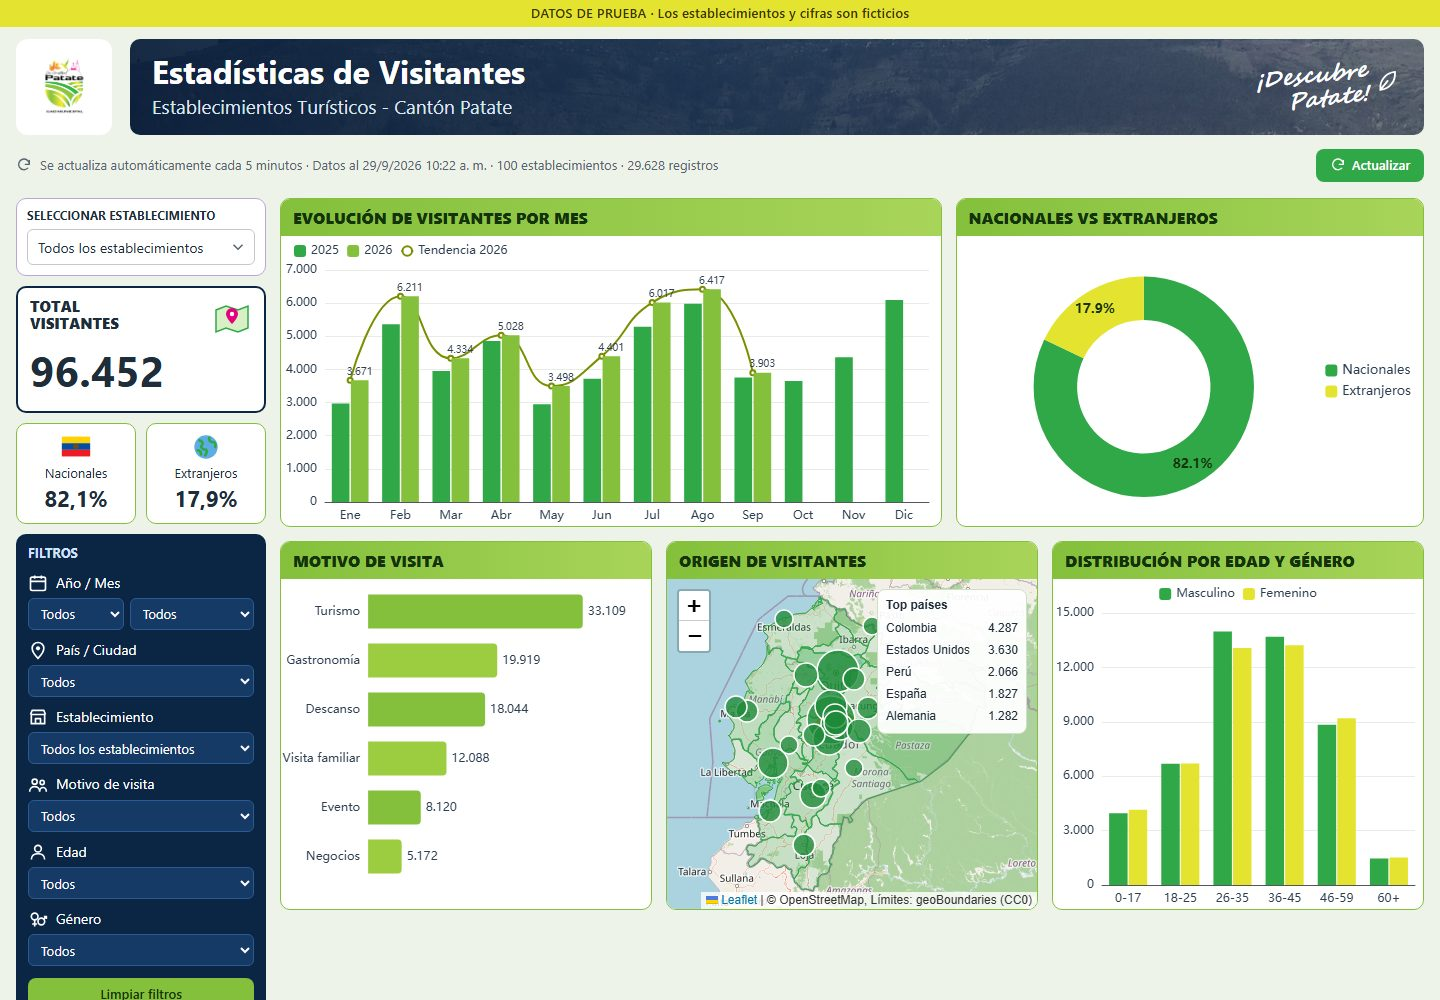
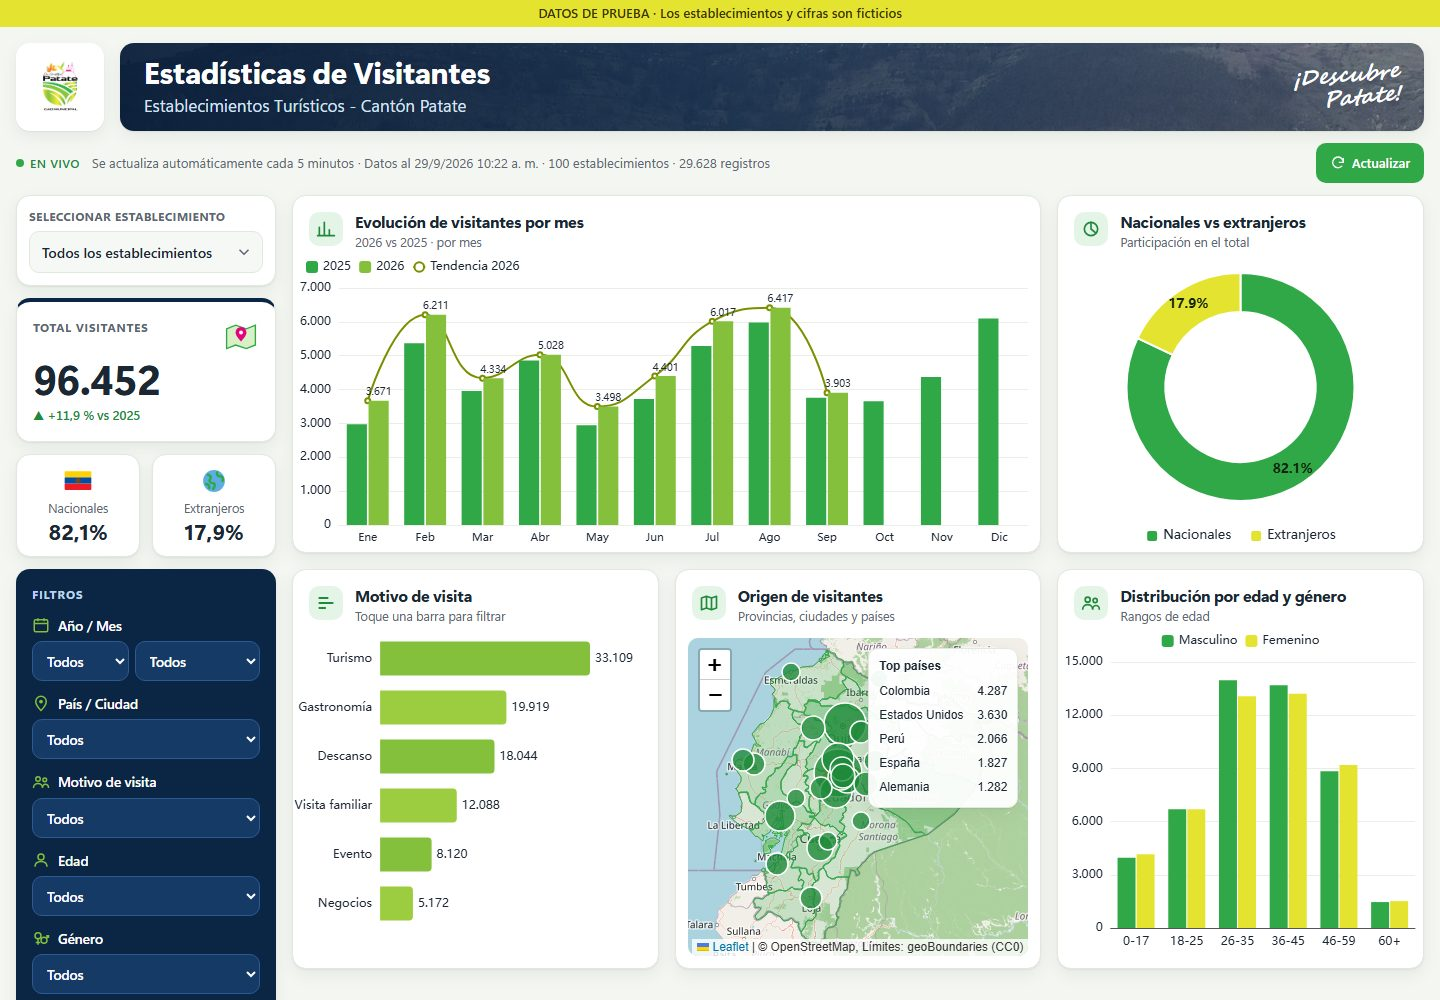
docs(repositorio): guía de contribución, capturas y README de la versión 2.0
AGENTS.md pasa a CONTRIBUTING.md redactado como guía del autor; capturas
de escritorio (claro y oscuro) y celular; README con las funciones nuevas y
la sección Sobre el proyecto; CHANGELOG 2.0.0.

diff --git a/README.md b/README.md
@@ -2,7 +2,7 @@
 
 [![Publicar dashboard](https://github.com/Alexis-VsCode/turismo-patate/actions/workflows/publicar.yml/badge.svg)](https://github.com/Alexis-VsCode/turismo-patate/actions/workflows/publicar.yml)
 [![Sitio en línea](https://img.shields.io/badge/demo-en%20l%C3%ADnea-30A848)](https://alexis-vscode.github.io/turismo-patate/)
-![Pruebas](https://img.shields.io/badge/pruebas-61%20en%20verde-30A848)
+![Pruebas](https://img.shields.io/badge/pruebas-64%20en%20verde-30A848)
 ![Licencia](https://img.shields.io/badge/licencia-derechos%20reservados-0B2545)
 
 > [English version](README.en.md)
@@ -13,7 +13,9 @@ tablero se actualiza solo, sin servidores propios ni licencias.
 
 **Demo en vivo:** https://alexis-vscode.github.io/turismo-patate/
 
-![Vista de escritorio del dashboard](docs/capturas/escritorio.jpg)
+| Modo claro | Modo oscuro |
+|---|---|
+| ![Vista de escritorio en modo claro](docs/capturas/escritorio.jpg) | ![Vista de escritorio en modo oscuro](docs/capturas/escritorio-oscuro.jpg) |
 
 ## El problema que resuelve
 
@@ -28,7 +30,8 @@ vienen, por qué motivo, y con qué edad y género. Las condiciones eran:
 
 ## Funcionalidades
 
-- **Indicadores:** total de visitantes y porcentaje de nacionales y de extranjeros.
+- **Indicadores:** total de visitantes con su **variación contra el mismo período del año anterior**
+  (▲ o ▼), y porcentaje de nacionales y de extranjeros. Las cifras se animan al filtrar.
 - **Gráficos:**
   - evolución mensual comparando dos años, con línea de tendencia;
   - dona de nacionales frente a extranjeros;
@@ -41,11 +44,14 @@ vienen, por qué motivo, y con qué edad y género. Las condiciones eran:
 - **Filtros:**
   - combo de establecimiento con búsqueda al escribir, pensado para cientos de opciones;
   - año, mes, procedencia, motivo, edad y género;
-  - **filtrado cruzado** con clic en los gráficos y en el mapa.
+  - **filtrado cruzado** con clic en los gráficos y en el mapa;
+  - **chips de filtros activos**, que se quitan con un toque.
 - **Actualización:** al entrar, con el botón «Actualizar» y de forma automática **cada 5 minutos**, con la
   hora de los datos siempre visible.
 - **Calidad de datos:** las filas inválidas no se descartan en silencio; se listan con su pestaña y su fila.
-- **Diseño adaptable:** en el celular se ve en una sola columna, sin scroll horizontal.
+- **Diseño adaptable:** en el celular se ve en una columna, con un botón flotante «Filtros» que abre un panel
+  desde abajo; sin scroll horizontal.
+- **Modo oscuro automático:** sigue el tema del dispositivo.
 
 ## Cómo funciona
 
@@ -100,11 +106,11 @@ Detalle en [docs/seguridad.md](docs/seguridad.md). Para reportar una vulnerabili
 
 ## Pruebas
 
-Son 61 pruebas automáticas y corren en cada publicación:
+Son 64 pruebas automáticas y corren en cada publicación:
 
 | Archivo | Qué prueba |
 |---|---|
-| [`test/domain/`](test/domain) | Los 7 escenarios de filtros concilian **exactamente** con un oráculo independiente en Python ([`tools/oraculo.py`](tools/oraculo.py)) sobre el libro real |
+| [`test/domain/`](test/domain) | Los 7 escenarios de filtros (totales, series y variación interanual) concilian **exactamente** con un oráculo independiente en Python ([`tools/oraculo.py`](tools/oraculo.py)) sobre el libro real |
 | [`test/infrastructure/`](test/infrastructure) | Normalización de errores reales (`agosoto`, espacios, tildes), filas rechazadas con ubicación, contrato de `datos.json` (ida y vuelta y paquete alterado), HTML hostil, `__proto__` y descarga acotada |
 | [`test/application/`](test/application) | Fachada con reloj simulado: reuso de 60 s, automático cada 5 minutos solo con la pestaña visible, conservación de datos ante errores |
 | [`test/arquitectura.test.mjs`](test/arquitectura.test.mjs) | Regla de dependencias entre capas |
@@ -140,6 +146,22 @@ de [`test/fixtures/`](test/fixtures).
 └── .github/workflows/publicar.yml
 ```
 
+## Sobre el proyecto
+
+Este tablero nació de una necesidad concreta del GAD Municipal de Patate: los establecimientos turísticos ya
+anotaban a sus visitantes, pero esos datos no llegaban a nadie. Me propuse que publicarlos no costara licencias
+ni servidores, y que cualquier persona del municipio pudiera sumar un establecimiento con solo duplicar una
+pestaña.
+
+Las decisiones que más me enseñaron:
+- **Ocultar la fuente sin un backend.** La URL de la hoja vive como secreto de GitHub Actions y el sitio solo
+  publica datos ya validados.
+- **Medir en lugar de suponer.** Cada cifra del tablero se concilia contra un cálculo independiente en Python,
+  así un error de fórmula no llega a producción.
+- **Diseñar para el celular primero.** La mayoría de visitas a la web municipal llega desde el teléfono.
+
+Las alternativas que descarté, y por qué, están en las [decisiones de diseño](docs/decisiones/).
+
 ## Documentación
 
 - [Arquitectura](docs/arquitectura.md)
@@ -149,7 +171,7 @@ de [`test/fixtures/`](test/fixtures).
 - [Decisiones de diseño (ADR)](docs/decisiones/)
 - [Registro de cambios](CHANGELOG.md)
 
-<img src="docs/capturas/celular.jpg" alt="Vista en celular" width="260" align="right">
+<img src="docs/capturas/celular.jpg" alt="Vista en celular" width="240" align="right">
 
 ## Autor
 

diff --git a/README.en.md b/README.en.md
@@ -2,7 +2,7 @@
 
 [![Publish dashboard](https://github.com/Alexis-VsCode/turismo-patate/actions/workflows/publicar.yml/badge.svg)](https://github.com/Alexis-VsCode/turismo-patate/actions/workflows/publicar.yml)
 [![Live site](https://img.shields.io/badge/demo-live-30A848)](https://alexis-vscode.github.io/turismo-patate/)
-![Tests](https://img.shields.io/badge/tests-61%20passing-30A848)
+![Tests](https://img.shields.io/badge/tests-64%20passing-30A848)
 ![License](https://img.shields.io/badge/license-all%20rights%20reserved-0B2545)
 
 > [Versión en español](README.md)
@@ -13,7 +13,9 @@ refreshes itself, with no servers of its own and no paid licenses.
 
 **Live demo:** https://alexis-vscode.github.io/turismo-patate/ (the interface is in Spanish).
 
-![Desktop view of the dashboard](docs/capturas/escritorio.jpg)
+| Light mode | Dark mode |
+|---|---|
+| ![Desktop view, light mode](docs/capturas/escritorio.jpg) | ![Desktop view, dark mode](docs/capturas/escritorio-oscuro.jpg) |
 
 ## The problem
 
@@ -28,7 +30,8 @@ come from, why they come, and their age and gender. The requirements were:
 
 ## Features
 
-- **KPIs:** total visitors and share of domestic and foreign visitors.
+- **KPIs:** total visitors with **year-over-year change** for the same period, and share of domestic and
+  foreign visitors. Figures animate when filters change.
 - **Charts:**
   - monthly trend comparing two years, with a trend line;
   - domestic vs. foreign donut;
@@ -41,11 +44,14 @@ come from, why they come, and their age and gender. The requirements were:
 - **Filters:**
   - searchable business picker, built for hundreds of options;
   - year, month, origin, reason, age and gender;
-  - **cross-filtering** by clicking charts and the map.
+  - **cross-filtering** by clicking charts and the map;
+  - **active-filter chips**, removable with one tap.
 - **Refresh:** on page load, with the «Actualizar» button, and automatically **every 5 minutes**, with the
   data timestamp always visible.
 - **Data quality:** invalid rows are never dropped silently; each one is listed with its tab and row.
-- **Responsive:** single column on phones, with no horizontal scrolling.
+- **Responsive:** single column on phones, with a floating «Filtros» button that opens a bottom sheet; no
+  horizontal scrolling.
+- **Automatic dark mode:** follows the device theme.
 
 ## How it works
 
@@ -98,13 +104,21 @@ See [SECURITY.md](SECURITY.md) to report a vulnerability.
 
 ## Tests
 
-61 automated tests run on every deployment:
+64 automated tests run on every deployment:
 - **Filter scenarios:** 7 scenarios reconcile **exactly** with an independent Python oracle over the real
   workbook.
 - **Data contract:** round-trip of `datos.json`, plus rejection of a tampered file.
 - **Security:** hostile HTML, prototype pollution and bounded downloads.
 - **Refresh policy:** tested with a simulated clock.
 - **Architecture:** the layer dependency guard.
+
+## About the project
+
+This dashboard started from a real need at the Patate municipality: local businesses were already recording
+their visitors, but the data never reached anyone. My goal was to publish it with no licenses and no servers,
+and to let anyone at the municipality add a business just by duplicating a spreadsheet tab. The key lessons: hiding
+the data source without a backend, reconciling every figure against an independent calculation, and designing
+for phones first.
 
 ## Run locally
 

diff --git a/docs/arquitectura.md b/docs/arquitectura.md
@@ -29,12 +29,12 @@ flowchart TB
 | **Infraestructura** | `src/infrastructure/config.js`, `seguridad.js`, `contrato-datos.js`, `repositorio-datos.js`, `lector-libro.js` | Configuración, descarga acotada, formato de `datos.json`, lectura del Excel (en Actions) | No tiene reglas de negocio |
 | **Fachada** | `src/application/tablero.facade.js` | Estado de datos y filtros, política de actualización, vista calculada, suscripción a eventos | No toca el DOM; recibe la descarga, el reloj y la visibilidad inyectados |
 | **Container** | `src/application/components/tablero.container.js` | Traduce eventos del DOM y de los gráficos en acciones de la fachada y pinta su vista | No calcula ni descarga |
-| **Presentacionales** | `src/application/components/presentational/*.js` | Dibujan gráficos, mapa, tarjetas y avisos | No guardan estado ni acceden a datos |
-| **Compartidos** | `src/application/components/compartidos/*.js` | Combo con búsqueda accesible y llenado seguro de `<select>` | — |
+| **Presentacionales** | `src/application/components/presentational/*.js` | Dibujan gráficos, mapa, tarjetas (con variación y cifras animadas), chips de filtros y avisos | No guardan estado ni acceden a datos |
+| **Compartidos** | `src/application/components/compartidos/*.js` | Combo con búsqueda accesible, llenado seguro de `<select>` y panel de filtros deslizable para celular y tableta | — |
 | **Shared** | `src/shared/textos.es.js`, `formato.js` | Textos visibles y formato numérico | — |
 | **Raíz** | `src/main.js` | Une la infraestructura con la fachada y monta el container | — |
 
-La regla de dependencias está en [`AGENTS.md`](../AGENTS.md#3-arquitectura-la-regla-de-dependencias-no-se-rompe),
+La regla de dependencias está en [`CONTRIBUTING.md`](../CONTRIBUTING.md#3-arquitectura-la-regla-de-dependencias-no-se-rompe),
 y la hace cumplir [`test/arquitectura.test.mjs`](../test/arquitectura.test.mjs).
 
 ## Flujo de datos

diff --git a/CHANGELOG.md b/CHANGELOG.md
@@ -2,6 +2,26 @@
 
 Formato basado en [Keep a Changelog](https://keepachangelog.com/es-ES/1.1.0/). Versionado semántico.
 
+## [2.0.0] - 2026-09-29
+
+### Cambiado
+- **Rediseño visual institucional moderno:**
+  - tarjetas limpias, con títulos acompañados de ícono y subtítulo;
+  - indicador «En vivo»;
+  - cabecera más compacta.
+- **Celular y tableta:** los filtros pasan a un panel que sube desde abajo, abierto por un botón flotante
+  «Filtros (n)». El botón «Actualizar» queda como ícono.
+- **Selector de establecimiento único:** se elimina el duplicado de la barra de filtros.
+
+### Añadido
+- Variación del total contra el mismo período del año anterior (`variacionInteranual`), conciliada con el
+  oráculo.
+- Chips de filtros activos, que se quitan con un toque.
+- Cifras animadas. Respetan «reducir movimiento» y llegan exactas aunque la pestaña esté en segundo plano.
+- Modo oscuro automático, que sigue el tema del dispositivo.
+- La guía `CONTRIBUTING.md` reemplaza a `AGENTS.md`.
+- Capturas de escritorio (claro y oscuro) y de celular. En total hay 64 pruebas.
+
 ## [1.2.0] - 2026-09-29
 
 ### Cambiado
@@ -18,7 +38,7 @@ Formato basado en [Keep a Changelog](https://keepachangelog.com/es-ES/1.1.0/). V
 - Guardián de arquitectura (`test/arquitectura.test.mjs`) y 8 pruebas de la fachada. En total, 61 pruebas.
 - Documentación de portafolio:
   - README en español e inglés;
-  - `LICENSE`, `SECURITY.md`, `THIRD_PARTY_NOTICES.md` y `AGENTS.md`;
+  - `LICENSE`, `SECURITY.md`, `THIRD_PARTY_NOTICES.md` y `CONTRIBUTING.md`;
   - guías de arquitectura, configuración, operación y seguridad;
   - decisiones de diseño (ADR) y capturas.
 - `.gitattributes` y `.editorconfig`.

diff --git a/CONTRIBUTING.md b/CONTRIBUTING.md
@@ -1,14 +1,15 @@
-# AGENTS.md — Reglas de este repositorio
+# Guía de contribución
 
-Reglas para quien mantenga el proyecto, sea una persona o un agente de IA. Si una regla choca con el código,
-**manda el código**: se corrige la regla en el mismo cambio.
+Estas son las reglas con las que mantengo el proyecto. Si una regla choca con el código, **manda el código**: se
+corrige la regla en el mismo cambio. El código es de uso reservado (ver [LICENSE](LICENSE)); las propuestas de
+mejora son bienvenidas por issue antes de abrir un pull request.
 
 ## 1. Lectura inicial, en este orden
 
 1. [`README.md`](README.md)
 2. [`docs/README.md`](docs/README.md)
 3. [`docs/arquitectura.md`](docs/arquitectura.md)
-4. Este archivo
+4. Esta guía
 5. `git status --short`: nunca se asume un árbol limpio
 
 ## 2. Fuentes de verdad
@@ -69,7 +70,7 @@ número de pruebas, CVE) se escribe sin medirla en el momento.
 - **Asunto del commit:** `tipo(ámbito): descripción`, con `tipo` ∈ `feat`, `fix`, `refactor`, `test`, `docs`,
   `chore`.
 - **No mezclar un refactor estructural con un cambio funcional** en el mismo commit.
-- **Sin firmas de herramientas de IA** en commits ni en archivos.
+- **Sin firmas automáticas de herramientas** en commits ni en archivos: el historial refleja el trabajo del autor.
 - **Una mutación hecha para probar que una prueba falla se restaura y se comprueba** con
   `git diff --quiet -- <ruta>`, no confiando en la palabra de quien la hizo.
 

diff --git a/docs/README.md b/docs/README.md
@@ -7,6 +7,6 @@
 | [operacion.md](operacion.md) | Administración de la hoja | Agregar establecimientos, columnas, catálogos, permisos y qué hacer si algo falla |
 | [seguridad.md](seguridad.md) | Desarrollo y auditoría | CVE, CSP, SRI, validación de datos y limitaciones conocidas |
 | [decisiones/](decisiones/) | Todos | Por qué se eligió cada alternativa (ADR) |
-| [capturas/](capturas/) | Todos | Vistas del sitio en escritorio y en celular |
+| [capturas/](capturas/) | Todos | Vistas del sitio en escritorio (claro y oscuro) y en celular |
 
-Las reglas para mantener el repositorio están en [`../AGENTS.md`](../AGENTS.md).
+Las reglas para mantener el repositorio están en [`../CONTRIBUTING.md`](../CONTRIBUTING.md).
